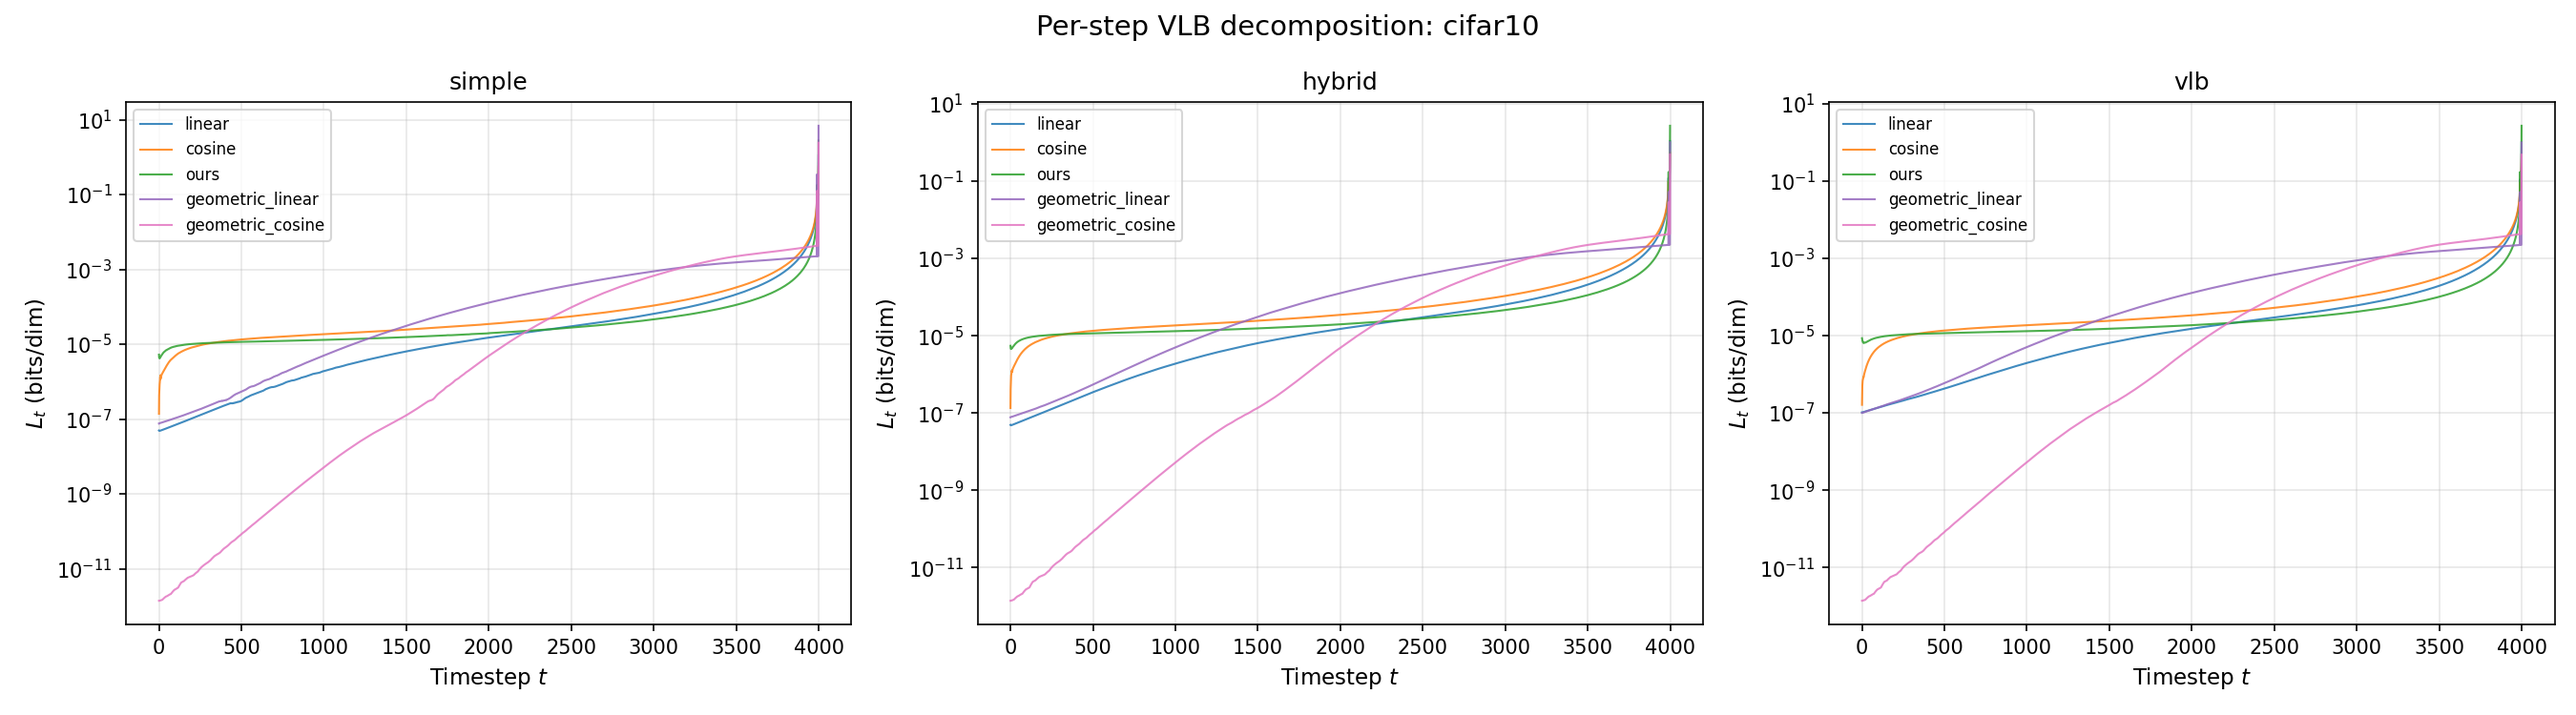
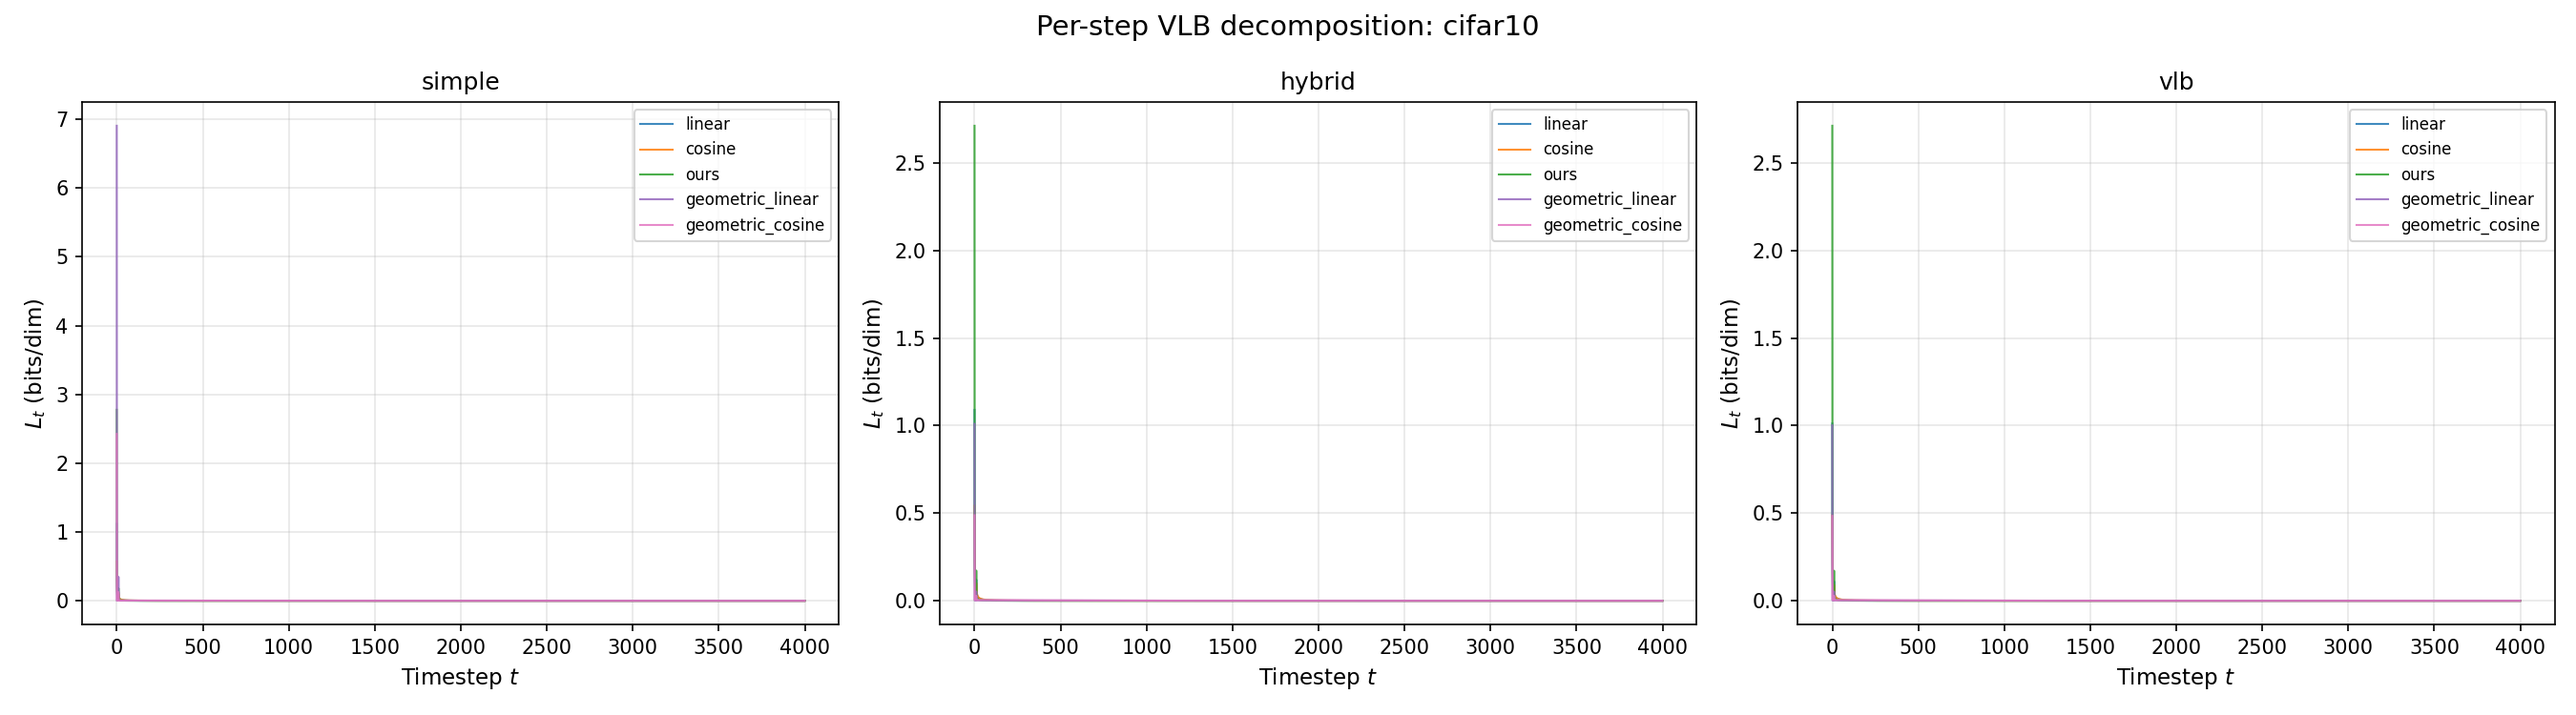
Fix reversed x-axis in per-step VLB plots and add log-scale versions
calc_bpd_loop iterates from t=T-1 down to t=0, so the saved array had
index 0 = L_{T-1}. The plot labeled the x-axis "Timestep t" without
reversing, making curves appear to increase with t. Now correctly shows
L_t decreasing with t (largest cost at small t near data).

diff --git a/plot_per_step_vlb.py b/plot_per_step_vlb.py
@@ -142,7 +142,7 @@ def main():
             if sched not in sched_dict:
                 continue
             data = np.load(sched_dict[sched])
-            vb = data["arr_0"]  # shape (T,)
+            vb = data["arr_0"][::-1]  # reverse: calc_bpd_loop stores t=T-1 first
             T = len(vb)
             timesteps = np.arange(T)
 
@@ -190,7 +190,7 @@ def main():
                 if sched not in sched_dict:
                     continue
                 data = np.load(sched_dict[sched])
-                vb = data["arr_0"]
+                vb = data["arr_0"][::-1]  # reverse: calc_bpd_loop stores t=T-1 first
                 T = len(vb)
                 timesteps = np.arange(T)
 
